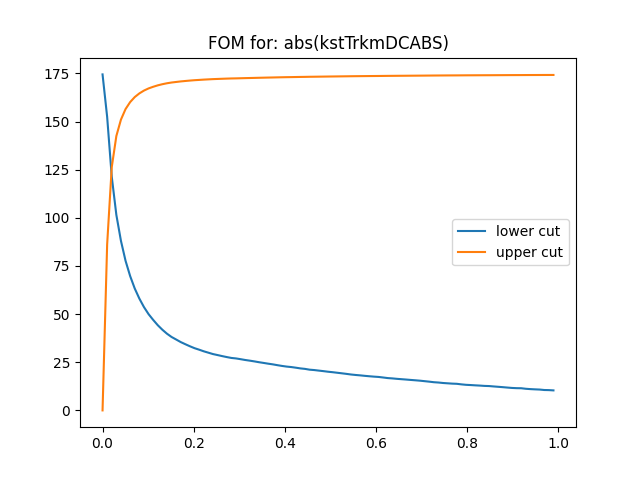
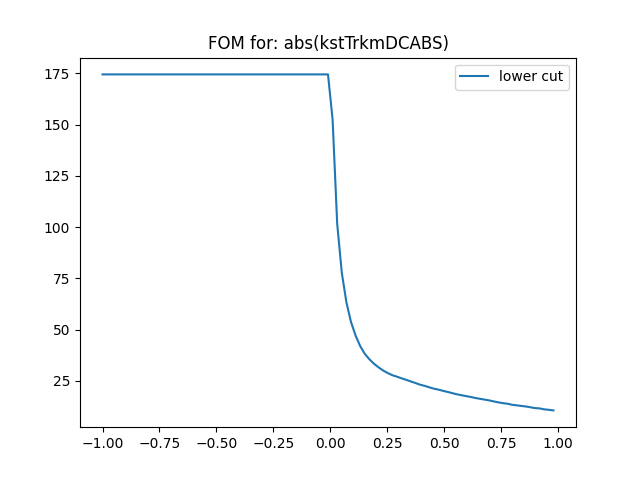
upper or lower cut only

diff --git a/FOM_withlimits.py b/FOM_withlimits.py
@@ -100,9 +100,12 @@ def calc_fom(v,signal,background,minv,maxv,fs,fb,show_upper):
             fom_opposite.append(0)
 
     plt.figure()
-    plt.plot(var_range,fom,label="lower cut")
+    
     if show_upper==1:
         plt.plot(var_range,fom_opposite,label="upper cut")
+    else:
+        plt.plot(var_range,fom,label="lower cut")
+        
     plt.title(f"FOM for: {v}")
     plt.legend()
     while True:
